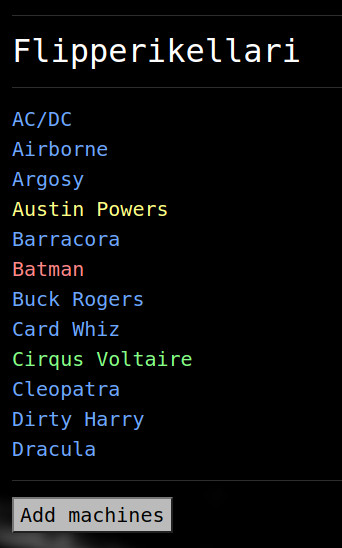
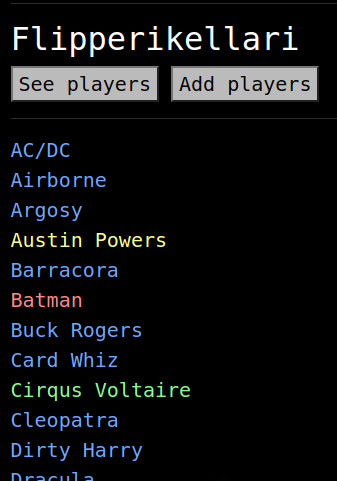
Update README

Changed region(s): [[0.0, 0.0, 1.0, 1.0], [0.4748, 0.499, 0.5045, 0.5301]]

diff --git a/README.md b/README.md
@@ -6,23 +6,29 @@ In the pinball community it is not unusual to see collections of [several dozen 
 * for a player (who is not necessarily the owner of the machine) to report a malfunction
 * for the owner (or some other designated person) to see the reported malfunctions
 
-The finished app should have the following features:  
-###### TO DO:
-* Could be nice (but not critical) to be able to submit a photo with the issue.
+Owners should create their collection and other players should (after registering to the app) ask the owner to give them user or admin rights. For now there is no way to ask in-app as it is assumed that the owner is also physically attending at their collection and in face to face interaction with other players.
 
-###### DONE:
+#### The app has the following features:  
+
 * All users log in with a username and password
 * A user can create a new collection which makes them an admin with regard to that collection
 * An admin can edit the collection afterwards
-* Any user can report a malfunction. The report always concerns a certain machine and must include a written description of what is wrong
+* An admin can add other players to use their collection. They can be added either as normal users or as admins
+* Any user can report a malfunction. The report always concerns a certain machine and includes a written description of what is wrong
 * The malfunction is given a severity rating from 1 (not severe, e.g. a light that is not working) to 3 (very severe, e.g. an important feature of the game is impossible to achieve because a mechanical switch not working)
 * When looking at reported malfunctions the user sees who reported it and when
 * An admin can mark a malfunction as fixed (i.e. delete the entry)
-* An admin can add other players to use their collection. They can be added either as normal users or as admins
-* An admin can remove users from their collection
+* An admin can remove other users from their collection
+
+#### Future improvement ideas:
+
+* Could be nice to be able to include a photo when reporting a malfunction? But in almost all cases a written description should be enough to explain what is wrong
+* For an operator (person who owns machines "on location" i.e. bars) it would be useful to make reporting malfunctions as easy as possible, preferably without any registration or other hassle. This could be achieved for example by attaching a unique QR code to each machine that would link directly to that machine's reporting form.
+* Currently it is perhaps too easy to remove users from your collection, it only takes a single click in the user list view. On the other hand this should not be a feature that is needed very often. You can not remove yourself however so it should be impossible for a collection to become completely unattended
 
 ### Find it on Fly.io:
-https://pcmh.fly.dev/
+https://pcmh.fly.dev/  
+**NB**: sometimes on first interaction you will get an OperationalError, seems like if the server has been idle this might be more likely to happen? Page refresh should get you back into normal operation. SQLAlchemy explanation of this error: https://sqlalche.me/e/14/e3q8
 
 ### Using the app
 After creating a user account you will see this:
@@ -30,11 +36,11 @@ After creating a user account you will see this:
 
 Click the button to create a new collection. In this view you can name your collection and provide a list of machines it includes.  
 ![](docs/2.jpg)  
-After this you can navigate to your collection and machines, adding or removing malfunction reports and/or machines as needed.  
+After this you can navigate to your collection and machines. As admin you can also see who else is admin or normal user of the collection and add users when necessary. Game titles are color coded to reflect the maximum severity of their reported malfunctions.  
 ![](docs/3.jpg)  
-Here Batman has a serious malfunction, Austin Powers has a somewhat serious malfunction, and Cirqus Voltaire has a not serious malfunction. The machines in blue have no reported malfunctions.
-![](docs/4.jpg)
-Sure enough it is pretty serious. Only the admins see these red buttons.
+Here Batman has a serious malfunction, Austin Powers has a somewhat serious malfunction, and Cirqus Voltaire has a not serious malfunction. The machines in blue have no reported malfunctions.  
+![](docs/4.jpg)  
+Sure enough it is pretty serious. Only admins see the red buttons. The blue collection name links back to the collection view.
 
 
 #### How to install locally (if need be, fly seems to be working):
